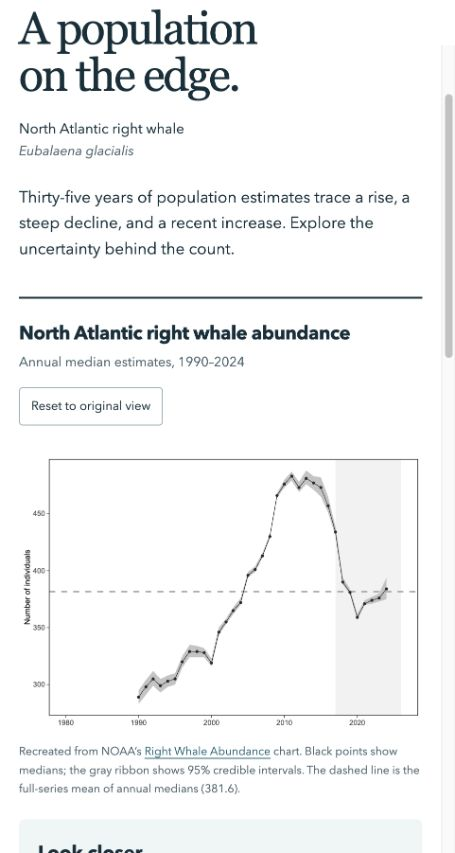
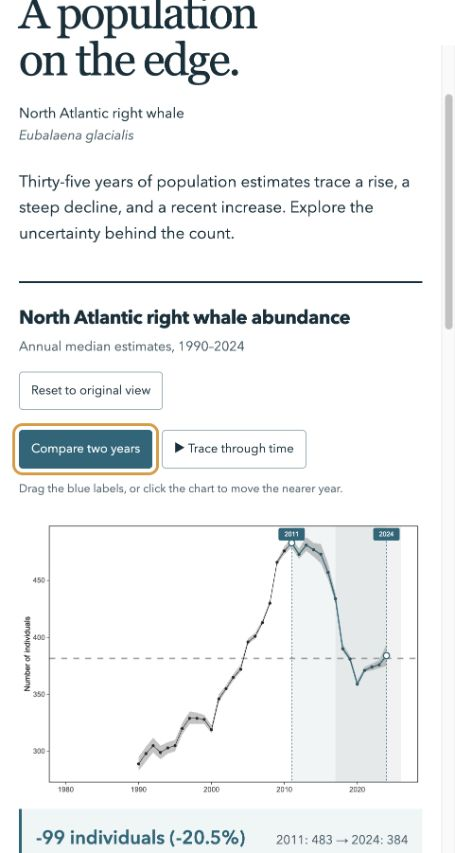
Keep interactive comparison and timeline within the NOAA chart recreation

diff --git a/script.js b/script.js
@@ -10,61 +10,90 @@ const NS='http://www.w3.org/2000/svg';
 const plot={left:50.5,right:664.5,top:28,bottom:454.5};
 const fullMean=data.reduce((sum,d)=>sum+d.Value,0)/data.length;
 let domain=[1977.75,2028.3],active=false;
+let comparing=false, tracing=false, timer=null, dragging=null;
+const compareA=document.querySelector('#compare-a');
+const compareB=document.querySelector('#compare-b');
+const compareToggle=document.querySelector('#compare-toggle');
+const playButton=document.querySelector('#play-chart');
 function el(tag,attrs={},text){const node=document.createElementNS(NS,tag);Object.entries(attrs).forEach(([k,v])=>node.setAttribute(k,v));if(text!==undefined)node.textContent=text;return node;}
 const x=v=>plot.left+(v-domain[0])/(domain[1]-domain[0])*(plot.right-plot.left);
 const y=v=>plot.bottom-(v-273)/(497.7-273)*(plot.bottom-plot.top);
 function line(parent,x1,y1,x2,y2,attrs={}){parent.append(el('line',{x1,y1,x2,y2,...attrs}));}
 function text(parent,xx,yy,str,attrs={}){parent.append(el('text',{x:xx,y:yy,'font-size':12,fill:'#4d4d4d',...attrs},str));}
 function visibleData(){return data.filter(d=>d.Time>= (period.value==='all'?1990:Number(period.value)));}
-function updateReadout(){const d=data.find(d=>d.Time===Number(year.value));const prev=data.find(v=>v.Time===d.Time-1);document.querySelector('#year-label').textContent=d.Time;document.querySelector('#readout').innerHTML=`<strong>${d.Value} <span>individuals</span></strong><p>95% credible interval: ${d.Lower95}–${d.Upper95}</p><p>${prev?`${d.Value-prev.Value>0?'+':''}${d.Value-prev.Value} from ${prev.Time}`:'First year with a population estimate'}</p>`;if(window.oceanReady)updateOcean(d);}
-function highlight(){svg.querySelector('#selection')?.remove();if(!active)return;const d=data.find(d=>d.Time===Number(year.value));const g=el('g',{id:'selection','pointer-events':'none'});line(g,x(d.Time),plot.top,x(d.Time),plot.bottom,{stroke:'#176779','stroke-width':1,'stroke-dasharray':'3 3'});g.append(el('circle',{cx:x(d.Time),cy:y(d.Value),r:5,fill:'white',stroke:'#176779','stroke-width':2}));svg.append(g);}
-function render(){svg.querySelectorAll('g,defs').forEach(n=>n.remove());const rows=visibleData();domain=period.value==='all'?[1977.75,2028.3]:[rows[0].Time-.8,2024.8];year.min=rows[0].Time;if(Number(year.value)<rows[0].Time)year.value=rows[0].Time;const defs=el('defs');const clip=el('clipPath',{id:'plot-clip'});clip.append(el('rect',{x:plot.left,y:plot.top,width:plot.right-plot.left,height:plot.bottom-plot.top}));defs.append(clip);svg.append(defs);const g=el('g',{'clip-path':'url(#plot-clip)'});svg.append(g);g.append(el('rect',{x:x(2017),y:plot.top,width:x(2026)-x(2017),height:plot.bottom-plot.top,fill:'#f2f2f2'}));if(average.checked)line(g,plot.left,y(fullMean),plot.right,y(fullMean),{stroke:'#a3a3a3','stroke-width':2.5,'stroke-dasharray':'10 10'});if(interval.checked){const points=rows.map(d=>`${x(d.Time)},${y(d.Upper95)}`).concat([...rows].reverse().map(d=>`${x(d.Time)},${y(d.Lower95)}`));g.append(el('polygon',{points:points.join(' '),fill:'#bdbdbd','fill-opacity':.9}));}g.append(el('polyline',{points:rows.map(d=>`${x(d.Time)},${y(d.Value)}`).join(' '),fill:'none',stroke:'#1a1a1a','stroke-width':.85}));rows.forEach(d=>g.append(el('circle',{class:'chart-point',cx:x(d.Time),cy:y(d.Value),r:2.5})));const axes=el('g');svg.append(axes);axes.append(el('rect',{x:plot.left,y:plot.top,width:plot.right-plot.left,height:plot.bottom-plot.top,fill:'none',stroke:'#000','stroke-width':1}));[300,350,400,450].forEach(v=>{line(axes,plot.left-4,y(v),plot.left,y(v),{stroke:'#000','stroke-width':.7});text(axes,plot.left-7,y(v)+4,v,{'text-anchor':'end'});});const ticks=period.value==='all'?[1980,1990,2000,2010,2020]:period.value==='1990'?[1990,2000,2010,2020,2024]:period.value==='2000'?[2000,2005,2010,2015,2020,2024]:period.value==='2010'?[2010,2015,2020,2024]:[2017,2019,2021,2024];ticks.forEach(v=>{line(axes,x(v),plot.bottom,x(v),plot.bottom+4,{stroke:'#000','stroke-width':.7});text(axes,x(v),plot.bottom+16,v,{'text-anchor':'middle'});});text(axes,18,241,'Number of individuals',{'text-anchor':'middle',transform:'rotate(-90 18 241)','font-size':13,fill:'#000'});updateReadout();highlight();}
-year.addEventListener('input',()=>{active=true;updateReadout();highlight();});period.addEventListener('change',render);interval.addEventListener('change',render);average.addEventListener('change',render);
-function inspect(event){const p=svg.createSVGPoint();p.x=event.clientX;p.y=event.clientY;const local=p.matrixTransform(svg.getScreenCTM().inverse());if(local.x<plot.left||local.x>plot.right||local.y<plot.top||local.y>plot.bottom)return;const target=domain[0]+(local.x-plot.left)/(plot.right-plot.left)*(domain[1]-domain[0]);const rows=visibleData();year.value=rows.reduce((a,b)=>Math.abs(b.Time-target)<Math.abs(a.Time-target)?b:a).Time;active=true;updateReadout();highlight();}
-svg.addEventListener('pointermove',inspect);svg.addEventListener('pointerdown',inspect);svg.addEventListener('pointerleave',()=>{active=false;highlight();});document.querySelector('#reset').addEventListener('click',()=>{period.value='all';interval.checked=true;average.checked=true;year.value=2024;active=false;render();});render();
+function updateReadout(){const d=data.find(d=>d.Time===Number(year.value));const prev=data.find(v=>v.Time===d.Time-1);document.querySelector('#year-label').textContent=d.Time;document.querySelector('#readout').innerHTML=`<strong>${d.Value} <span>individuals</span></strong><p>95% credible interval: ${d.Lower95}–${d.Upper95}</p><p>${prev?`${d.Value-prev.Value>0?'+':''}${d.Value-prev.Value} from ${prev.Time}`:'First year with a population estimate'}</p>`;}
+function highlight(){svg.querySelector('#selection')?.remove();if(!active||comparing)return;const d=data.find(d=>d.Time===Number(year.value));const g=el('g',{id:'selection','pointer-events':'none'});line(g,x(d.Time),plot.top,x(d.Time),plot.bottom,{stroke:'#176779','stroke-width':1,'stroke-dasharray':'3 3'});g.append(el('circle',{cx:x(d.Time),cy:y(d.Value),r:5,fill:'white',stroke:'#176779','stroke-width':2}));svg.append(g);}
+function render(){svg.querySelectorAll('g,defs').forEach(n=>n.remove());const allRows=visibleData();let rows=allRows;domain=period.value==='all'?[1977.75,2028.3]:[rows[0].Time-.8,2024.8];year.min=rows[0].Time;if(Number(year.value)<rows[0].Time)year.value=rows[0].Time;if(tracing)rows=allRows.filter(d=>d.Time<=Number(year.value));const defs=el('defs');const clip=el('clipPath',{id:'plot-clip'});clip.append(el('rect',{x:plot.left,y:plot.top,width:plot.right-plot.left,height:plot.bottom-plot.top}));defs.append(clip);svg.append(defs);const g=el('g',{'clip-path':'url(#plot-clip)'});svg.append(g);g.append(el('rect',{x:x(2017),y:plot.top,width:x(2026)-x(2017),height:plot.bottom-plot.top,fill:'#f2f2f2'}));if(average.checked)line(g,plot.left,y(fullMean),plot.right,y(fullMean),{stroke:'#a3a3a3','stroke-width':2.5,'stroke-dasharray':'10 10'});if(interval.checked){const points=rows.map(d=>`${x(d.Time)},${y(d.Upper95)}`).concat([...rows].reverse().map(d=>`${x(d.Time)},${y(d.Lower95)}`));g.append(el('polygon',{points:points.join(' '),fill:'#bdbdbd','fill-opacity':.9}));}g.append(el('polyline',{points:rows.map(d=>`${x(d.Time)},${y(d.Value)}`).join(' '),fill:'none',stroke:'#1a1a1a','stroke-width':.85}));rows.forEach(d=>g.append(el('circle',{class:'chart-point',cx:x(d.Time),cy:y(d.Value),r:2.5})));const axes=el('g');svg.append(axes);axes.append(el('rect',{x:plot.left,y:plot.top,width:plot.right-plot.left,height:plot.bottom-plot.top,fill:'none',stroke:'#000','stroke-width':1}));[300,350,400,450].forEach(v=>{line(axes,plot.left-4,y(v),plot.left,y(v),{stroke:'#000','stroke-width':.7});text(axes,plot.left-7,y(v)+4,v,{'text-anchor':'end'});});const ticks=period.value==='all'?[1980,1990,2000,2010,2020]:period.value==='1990'?[1990,2000,2010,2020,2024]:period.value==='2000'?[2000,2005,2010,2015,2020,2024]:period.value==='2010'?[2010,2015,2020,2024]:[2017,2019,2021,2024];ticks.forEach(v=>{line(axes,x(v),plot.bottom,x(v),plot.bottom+4,{stroke:'#000','stroke-width':.7});text(axes,x(v),plot.bottom+16,v,{'text-anchor':'middle'});});text(axes,18,241,'Number of individuals',{'text-anchor':'middle',transform:'rotate(-90 18 241)','font-size':13,fill:'#000'});updateReadout();highlight();drawComparison();updateChartDescription(rows);}
 
-// One whale-shaped mark per estimated individual; stable slots preserve count comparison.
-const field=document.querySelector('#whale-field');
-const oceanYear=document.querySelector('#ocean-year');
-const playButton=document.querySelector('#play-ocean');
-let estimateKey='Value',playTimer=null;
-const fieldDefs=el('defs');
-const whaleSymbol=el('symbol',{id:'whale-symbol',viewBox:'0 0 40 22'});
-// Original vector silhouette: a broad head, tapered body, pectoral fin, and forked flukes.
-whaleSymbol.append(el('path',{d:'M3 10 C3 4 12 2 20 5 C26 7 29 12 32 12 C32 8 34 5 38 5 L36 11 L39 16 C35 18 32 17 30 15 C23 18 14 18 10 15 L9 20 L6 15 C3 14 2 12 3 10 Z'}));
-fieldDefs.append(whaleSymbol);field.append(fieldDefs);
-const whaleMarks=[];
-for(let i=0;i<500;i++){
- const col=i%25,row=Math.floor(i/25);
- const unit=el('g',{class:'whale-unit',transform:`translate(${col*40},${row*26})`,'aria-hidden':'true'});
- unit.append(el('use',{href:'#whale-symbol',width:34,height:20}));field.append(unit);whaleMarks.push(unit);
+function stopPlayback(){clearInterval(timer);timer=null;playButton.textContent='▶ Trace through time';playButton.setAttribute('aria-pressed','false');}
+function updateChartDescription(rows){document.querySelector('#svg-desc').textContent=`${tracing?'Timeline revealed through '+year.value+'. ':''}North Atlantic right whale median population estimates, ${rows[0].Time}–${rows[rows.length-1].Time}. ${interval.checked?'Gray ribbon shows 95% credible intervals. ':''}${comparing?'Two draggable markers compare '+compareA.value+' and '+compareB.value+'.':''}`;}
+function drawComparison(){
+ document.querySelector('#comparison-panel').hidden=!comparing;
+ svg.classList.toggle('is-comparing',comparing);
+ if(!comparing)return;
+ const a=data.find(d=>d.Time===Number(compareA.value)),b=data.find(d=>d.Time===Number(compareB.value));
+ const difference=b.Value-a.Value,percent=difference/a.Value*100;
+ document.querySelector('#compare-a-label').textContent=a.Time;
+ document.querySelector('#compare-b-label').textContent=b.Time;
+ document.querySelector('#compare-change').textContent=`${difference>0?'+':''}${difference} individuals (${percent>0?'+':''}${percent.toFixed(1)}%)`;
+ document.querySelector('#compare-description').textContent=`${a.Time}: ${a.Value} → ${b.Time}: ${b.Value}`;
+ const g=el('g',{id:'comparison-overlay'});
+ g.append(el('rect',{x:x(a.Time),y:plot.top,width:x(b.Time)-x(a.Time),height:plot.bottom-plot.top,fill:'#176779','fill-opacity':.065,'pointer-events':'none'}));
+ const segment=data.filter(d=>d.Time>=a.Time&&d.Time<=b.Time);
+ g.append(el('polyline',{points:segment.map(d=>`${x(d.Time)},${y(d.Value)}`).join(' '),fill:'none',stroke:'#176779','stroke-width':2,'pointer-events':'none'}));
+ [a,b].forEach((d,i)=>{
+  const name=i===0?'a':'b';
+  const labelOffset=i===1&&x(b.Time)-x(a.Time)<48?28:3;
+  line(g,x(d.Time),plot.top+25,x(d.Time),plot.bottom,{stroke:'#176779','stroke-width':1,'stroke-dasharray':'3 3','pointer-events':'none'});
+  g.append(el('circle',{cx:x(d.Time),cy:y(d.Value),r:5,fill:'white',stroke:'#176779','stroke-width':2,'pointer-events':'none'}));
+  const marker=el('g',{'data-handle':name,class:'year-handle'});
+  marker.append(el('rect',{x:x(d.Time)-13,y:plot.top,width:26,height:plot.bottom-plot.top,fill:'transparent'}));
+  marker.append(el('rect',{x:x(d.Time)-22,y:plot.top+labelOffset,width:44,height:21,rx:3,fill:'#176779'}));
+  text(marker,x(d.Time),plot.top+labelOffset+14,d.Time,{'text-anchor':'middle',fill:'white','font-size':11});
+  g.append(marker);
+ });
+ svg.append(g);
 }
-function updateOcean(d){
- const count=d[estimateKey];
- oceanYear.value=d.Time;
- document.querySelector('#ocean-year-label').textContent=d.Time;
- document.querySelector('#ocean-date').textContent=d.Time;
- document.querySelector('#ocean-count').textContent=count;
- document.querySelector('#ocean-measure').textContent=estimateKey==='Value'?'estimated individuals (median)':estimateKey==='Lower95'?'individuals at the lower 95% bound':'individuals at the upper 95% bound';
- const diff=count-483;
- document.querySelector('#ocean-change').textContent=diff===0?'Equal to the 2011 median peak':`${Math.abs(diff)} ${diff>0?'above':'below'} the 2011 median peak`;
- whaleMarks.forEach((mark,i)=>mark.setAttribute('class',`whale-unit${i<count?'':i<483?' ghost':' absent'}`));
- document.querySelector('#field-description').textContent=`${d.Time}: ${count} filled symbols. ${Math.max(0,483-count)} outlined symbols show the gap from the 2011 median of 483. 95% credible interval: ${d.Lower95} to ${d.Upper95}.`;
- document.querySelectorAll('[data-year]').forEach(button=>button.setAttribute('aria-current',String(Number(button.dataset.year)===d.Time)));
- const prior=data.find(r=>r.Time===d.Time-1);
- let story=d.Time===1990?'The series begins with an estimated 289 whales.':d.Time===2011?'The population reaches its highest median estimate in this series: 483 whales.':d.Time===2020?'The median falls to 359, the lowest estimate since 2002.':d.Time===2024?'A recent increase, but still 99 fewer than the 2011 median peak.':prior?`The median ${d.Value>prior.Value?'increases by':d.Value<prior.Value?'decreases by':'changes by'} ${Math.abs(d.Value-prior.Value)} from the previous year, to ${d.Value} whales.`:'';
- if(estimateKey!=='Value')story=`For ${d.Time}, the 95% credible interval spans ${d.Lower95}–${d.Upper95} individuals. You’re viewing its ${estimateKey==='Lower95'?'lower':'upper'} bound; the median is ${d.Value}.`;
- document.querySelector('#ocean-narrative').textContent=story;
+function setComparison(enabled){stopPlayback();tracing=false;comparing=enabled;active=false;compareToggle.setAttribute('aria-pressed',String(enabled));if(enabled)period.value='all';document.querySelector('#chart-help').textContent=enabled?'Drag the blue labels, or click the chart to move the nearer year.':'Hover to inspect an estimate, or try a chart interaction.';render();}
+compareToggle.addEventListener('click',()=>setComparison(!comparing));
+function constrainComparison(which,value){if(which==='a')compareA.value=Math.min(Math.max(1990,value),Number(compareB.value)-1);else compareB.value=Math.max(Math.min(2024,value),Number(compareA.value)+1);render();}
+compareA.addEventListener('input',()=>constrainComparison('a',Number(compareA.value)));
+compareB.addEventListener('input',()=>constrainComparison('b',Number(compareB.value)));
+document.querySelectorAll('[data-compare]').forEach(button=>button.addEventListener('click',()=>{const [a,b]=button.dataset.compare.split(',');compareA.value=a;compareB.value=b;setComparison(true);}));
+function localPoint(event){const p=svg.createSVGPoint();p.x=event.clientX;p.y=event.clientY;return p.matrixTransform(svg.getScreenCTM().inverse());}
+function nearestYear(local){return Math.round(domain[0]+(local.x-plot.left)/(plot.right-plot.left)*(domain[1]-domain[0]));}
+function inspect(event){
+ if(comparing||tracing)return;
+ const local=localPoint(event);
+ if(local.x<plot.left||local.x>plot.right||local.y<plot.top||local.y>plot.bottom)return;
+ year.value=Math.max(Number(year.min),Math.min(2024,nearestYear(local)));active=true;updateReadout();highlight();
 }
-function stopPlayback(){if(playTimer!==null)clearInterval(playTimer);playTimer=null;playButton.textContent='▶ Play timeline';playButton.setAttribute('aria-pressed','false');}
-function selectOceanYear(value){period.value='all';year.min=1990;year.value=value;active=true;render();}
-oceanYear.addEventListener('input',()=>{stopPlayback();selectOceanYear(Number(oceanYear.value));});
-document.querySelectorAll('[data-year]').forEach(button=>button.addEventListener('click',()=>{stopPlayback();selectOceanYear(Number(button.dataset.year));}));
-document.querySelectorAll('[data-estimate]').forEach(button=>button.addEventListener('click',()=>{estimateKey=button.dataset.estimate;document.querySelectorAll('[data-estimate]').forEach(b=>b.setAttribute('aria-pressed',String(b===button)));updateOcean(data.find(d=>d.Time===Number(year.value)));}));
-playButton.addEventListener('click',()=>{if(playTimer!==null){stopPlayback();return;}if(Number(year.value)===2024)selectOceanYear(1990);playButton.textContent='Ⅱ Pause timeline';playButton.setAttribute('aria-pressed','true');playTimer=setInterval(()=>{const next=Number(year.value)+1;if(next>2024){stopPlayback();return;}selectOceanYear(next);if(next===2024)stopPlayback();},850);});
-[year,period].forEach(control=>control.addEventListener('input',stopPlayback));
-svg.addEventListener('pointerdown',stopPlayback);
-svg.addEventListener('pointermove',stopPlayback);
-document.querySelector('#reset').addEventListener('click',()=>{stopPlayback();estimateKey='Value';document.querySelectorAll('[data-estimate]').forEach(b=>b.setAttribute('aria-pressed',String(b.dataset.estimate==='Value')));updateOcean(data[data.length-1]);});
+svg.addEventListener('pointerdown',event=>{
+ const handle=event.target.closest('[data-handle]');
+ if(comparing){
+  const local=localPoint(event);
+  if(local.x<plot.left||local.x>plot.right||local.y<plot.top||local.y>plot.bottom)return;
+  const target=nearestYear(local);
+  dragging=handle?handle.dataset.handle:(Math.abs(target-Number(compareA.value))<=Math.abs(target-Number(compareB.value))?'a':'b');
+  svg.setPointerCapture(event.pointerId);event.preventDefault();constrainComparison(dragging,target);
+ } else inspect(event);
+});
+svg.addEventListener('pointermove',event=>{if(dragging)constrainComparison(dragging,nearestYear(localPoint(event)));else inspect(event);});
+function finishDrag(event){dragging=null;if(svg.hasPointerCapture(event.pointerId))svg.releasePointerCapture(event.pointerId);}
+svg.addEventListener('pointerup',finishDrag);svg.addEventListener('pointercancel',finishDrag);
+svg.addEventListener('pointerleave',()=>{if(!dragging){active=false;highlight();}});
+year.addEventListener('input',()=>{stopPlayback();active=true;if(comparing)setComparison(false);render();});
+period.addEventListener('change',()=>{stopPlayback();if(comparing){comparing=false;compareToggle.setAttribute('aria-pressed','false');}render();});
+interval.addEventListener('change',render);average.addEventListener('change',render);
+playButton.addEventListener('click',()=>{
+ if(timer!==null){stopPlayback();return;}
+ if(comparing)setComparison(false);
+ const start=visibleData()[0].Time;
+ if(!tracing||Number(year.value)===2024)year.value=start;
+ tracing=true;active=true;document.querySelector('#chart-help').textContent='The line unfolds year by year. Pause, then scrub with the year slider.';
+ playButton.textContent='Ⅱ Pause tracing';playButton.setAttribute('aria-pressed','true');render();
+ timer=setInterval(()=>{year.value=Number(year.value)+1;render();if(Number(year.value)>=2024)stopPlayback();},650);
+});
+document.querySelector('#reset').addEventListener('click',()=>{stopPlayback();tracing=false;comparing=false;dragging=null;compareToggle.setAttribute('aria-pressed','false');period.value='all';interval.checked=true;average.checked=true;year.value=2024;active=false;document.querySelector('#chart-help').textContent='Hover to inspect an estimate, or try a chart interaction.';render();});
 document.addEventListener('visibilitychange',()=>{if(document.hidden)stopPlayback();});
-window.oceanReady=true;updateOcean(data[data.length-1]);
+render();

diff --git a/index.html b/index.html
@@ -3,8 +3,8 @@
 <head>
 <meta charset="utf-8"><meta name="viewport" content="width=device-width,initial-scale=1">
 <title>North Atlantic right whales · Visual reverse engineering</title>
-<link rel="stylesheet" href="style.css?v=2">
-<script defer src="data/population.js"></script><script defer src="script.js?v=2"></script>
+<link rel="stylesheet" href="style.css?v=3">
+<script defer src="data/population.js"></script><script defer src="script.js?v=3"></script>
 </head>
 <body>
 <header><a class="site-title" href="#">Ocean populations</a><span>Visual reverse engineering · Fall 2026</span></header>
@@ -13,23 +13,13 @@
 <div><h1>A population<br>on the edge.</h1><p class="species">North Atlantic right whale <i>Eubalaena glacialis</i></p></div>
 <p class="lede">Thirty-five years of population estimates trace a rise, a steep decline, and a recent increase. Explore the uncertainty behind the count.</p>
 </section>
-<section class="ocean-story" aria-labelledby="ocean-title">
-<div class="ocean-top"><div><p class="ocean-kicker">An interactive extension</p><h2 id="ocean-title">Every whale counts.</h2><p>Move through time. Watch an entire population change.</p></div><a href="#chart-title">See the original chart recreation ↓</a></div>
-<div class="ocean-stage">
-<div class="ocean-stat"><div><output id="ocean-count">384</output><span id="ocean-measure">estimated individuals</span></div><div class="ocean-date"><output id="ocean-date">2024</output><span id="ocean-change">99 below the 2011 peak</span></div></div>
-<svg id="whale-field" viewBox="0 0 1000 540" role="img" aria-labelledby="field-title field-description"><title id="field-title">A population of whales, one symbol per estimated individual</title><desc id="field-description">384 filled whale symbols for the 2024 median estimate.</desc></svg>
-<div class="ocean-legend"><span><i class="legend-filled"></i> One symbol = one estimated individual</span><span><i class="legend-ghost"></i> Gap from the 2011 median peak</span></div>
-</div>
-<div class="ocean-controls"><button id="play-ocean" type="button" aria-pressed="false">▶ Play timeline</button><div class="scrubber"><label for="ocean-year">Explore a year <output id="ocean-year-label">2024</output></label><input id="ocean-year" type="range" min="1990" max="2024" value="2024" step="1"><div class="timeline-ends"><span>1990</span><span>2024</span></div></div></div>
-<div class="ocean-options"><div class="milestones" aria-label="Jump to a population milestone"><button data-year="1990">1990 · Starting point</button><button data-year="2011">2011 · Peak</button><button data-year="2020">2020 · Recent low</button><button data-year="2024">2024 · Latest estimate</button></div><div class="estimate-choice" role="group" aria-label="Population estimate to visualize"><span>Explore uncertainty</span><div><button data-estimate="Lower95" aria-pressed="false">Lower bound</button><button data-estimate="Value" aria-pressed="true">Median</button><button data-estimate="Upper95" aria-pressed="false">Upper bound</button></div></div></div>
-<p id="ocean-narrative" class="ocean-narrative" aria-live="polite"></p>
-<p class="ocean-note">Symbols represent model estimates, not identified whales or their locations. Outlines show a numerical gap from 483, not documented deaths. Lower and upper bounds are the limits of the 95% credible interval; the line chart below always shows medians.</p>
-</section>
 <section aria-labelledby="chart-title" class="chart-section">
 <div class="chart-heading"><div><h2 id="chart-title">North Atlantic right whale abundance</h2><p>Annual median estimates, 1990–2024</p></div><button id="reset" type="button">Reset to original view</button></div>
+<div class="chart-tools" aria-label="Chart interactions"><button id="compare-toggle" aria-pressed="false">Compare two years</button><button id="play-chart" aria-pressed="false">▶ Trace through time</button><span id="chart-help">Hover to inspect an estimate, or try a chart interaction.</span></div>
 <div class="chart-layout">
 <div class="chart-column">
 <svg id="chart" viewBox="0 0 672 480" role="img" aria-labelledby="svg-title svg-desc"><title id="svg-title">North Atlantic right whale population estimates</title><desc id="svg-desc">Median population rose from 289 in 1990 to 483 in 2011, declined to 359 in 2020, then increased to 384 in 2024. Gray ribbon shows the 95 percent credible interval.</desc></svg>
+<div id="comparison-panel" hidden><div class="compare-result" aria-live="polite"><strong id="compare-change"></strong><span id="compare-description"></span></div><div class="compare-sliders"><label for="compare-a">Start year <output id="compare-a-label">2011</output><input id="compare-a" type="range" min="1990" max="2023" value="2011"></label><label for="compare-b">End year <output id="compare-b-label">2024</output><input id="compare-b" type="range" min="1991" max="2024" value="2024"></label></div><div class="compare-presets"><button data-compare="2011,2024">Peak to latest</button><button data-compare="2020,2024">Recent increase</button></div><p>Change in median estimates; not a count of deaths or a significance test.</p></div>
 <p class="chart-caption">Recreated from NOAA’s <a href="https://noaa-edab.github.io/catalog/narw.html">Right Whale Abundance</a> chart. Black points show medians; the gray ribbon shows 95% credible intervals. The dashed line is the full-series mean of annual medians (381.6).</p>
 </div>
 <aside class="explorer" aria-label="Year explorer">
@@ -47,7 +37,7 @@
 </section>
 <section class="reading" aria-labelledby="reading-title"><h2 id="reading-title">Reading the recovery</h2><div class="reading-grid"><p><strong>483 → 384</strong>The 2024 median estimate is 20.5% below the 2011 peak, despite the increase since 2020.</p><p><strong>A range, not an exact census</strong>The 2024 estimate is 384 individuals, with a 95% credible interval of 375–394. These are model-based estimates, not a complete head count.</p><p><strong>One species, many pressures</strong>NOAA identifies entanglement in fishing gear and vessel strikes as primary threats. This chart describes population change; it does not isolate its causes.</p></div></section>
 <section class="method" aria-labelledby="method-title"><h2 id="method-title">From reference to reconstruction</h2><p>The original is a static chart in NOAA’s Northeast US Ecosystem Indicator Catalog. The reproduction preserves its monochrome palette, connected circular marks, gray uncertainty ribbon, dashed horizontal reference, boxed axes, blank early years, and pale recent-period background. The surrounding layout and explorer are additions.</p>
-<details><summary>Compare with the original &amp; read the process</summary><div class="comparison"><figure><img src="assets/original-noaa-chart.png" width="1344" height="960" loading="lazy" alt="Original NOAA line chart of North Atlantic right whale abundance, with an uncertainty ribbon and horizontal dashed mean."><figcaption>Original NOAA chart. <a href="assets/original-screenshot.png">View captured screenshot</a> · <a href="https://noaa-edab.github.io/catalog/narw.html">Original page</a></figcaption></figure><div><h3>What was recreated</h3><p>A custom SVG chart uses the original plotted CSV, including all 35 non-missing annual medians and their lower and upper 95% bounds. The original plot’s 672 × 480 display ratio, tick placement, line weight, point size, and gray values guided the reconstruction. No chart image or iframe is used to draw the recreated visualization.</p><h3>What was added</h3><ol><li><b>Every whale counts:</b> an animated population pictogram with a shared year scrubber, timeline playback, milestone jumps, and a lower/median/upper estimate selector. Outlined symbols make the numerical gap from the 2011 median peak visible.</li><li><b>Year inspection:</b> pointer hover, touch, or the keyboard-accessible slider reveals the estimate, interval, and change from the previous year.</li><li><b>Time filtering:</b> select a period to examine recent changes, with a fixed vertical scale.</li><li><b>Layer controls:</b> toggle uncertainty and the full-series average.</li></ol><p>The original pale band is retained as a visual feature; it is not presented as a causal effect. Missing population values before 1990 and in 2025 are not converted to zero. The reset button restores the original chart extent and layers.</p></div></div></details>
+<details><summary>Compare with the original &amp; read the process</summary><div class="comparison"><figure><img src="assets/original-noaa-chart.png" width="1344" height="960" loading="lazy" alt="Original NOAA line chart of North Atlantic right whale abundance, with an uncertainty ribbon and horizontal dashed mean."><figcaption>Original NOAA chart. <a href="assets/original-screenshot.png">View captured screenshot</a> · <a href="https://noaa-edab.github.io/catalog/narw.html">Original page</a></figcaption></figure><div><h3>What was recreated</h3><p>A custom SVG chart uses the original plotted CSV, including all 35 non-missing annual medians and their lower and upper 95% bounds. The original plot’s 672 × 480 display ratio, tick placement, line weight, point size, and gray values guided the reconstruction. No chart image or iframe is used to draw the recreated visualization.</p><h3>What was added</h3><ol><li><b>Direct chart comparison:</b> drag two year markers on the recreated plot to highlight the intervening line segment and calculate absolute and percentage change. Keyboard-accessible sliders and comparison presets are also available.</li><li><b>Trace through time:</b> play or scrub the year slider to progressively reveal the original line, points, and uncertainty ribbon on fixed axes.</li><li><b>Year inspection:</b> pointer hover, touch, or the keyboard-accessible slider reveals the estimate, interval, and change from the previous year.</li><li><b>Time filtering:</b> select a period to examine recent changes, with a fixed vertical scale.</li><li><b>Layer controls:</b> toggle uncertainty and the full-series average.</li></ol><p>The original pale band is retained as a visual feature; it is not presented as a causal effect. Missing population values before 1990 and in 2025 are not converted to zero. The reset button restores the original chart extent and layers.</p></div></div></details>
 </section>
 <footer><p>Source: NOAA Northeast Fisheries Science Center, <a href="https://noaa-edab.github.io/catalog/narw.html">Northeast US Ecosystem Indicator Catalog, “Right Whale Abundance”</a>, updated July 23, 2026. Contributors: Daniel Linden, Richard Pace, and New England Aquarium. Source accessed October 1, 2026.</p><p>Course project by Nicole Lu. Built with HTML, CSS, JavaScript, and SVG, with AI assistance for research, implementation, and verification. Data and reference graphic credited to NOAA. <a href="README.md">Project documentation</a>.</p></footer>
 </main>

diff --git a/style.css b/style.css
@@ -1,3 +1,2 @@
 :root{--ink:#12303b;--muted:#4d656e;--sea:#176779;--line:#d3dfe2;--wash:#eff5f6}*{box-sizing:border-box}body{margin:0;background:#fff;color:var(--ink);font-family:"Avenir Next",Avenir,"Segoe UI",Arial,sans-serif;font-size:16px;line-height:1.6}header{max-width:1280px;margin:auto;padding:24px 42px;display:flex;justify-content:space-between;gap:20px;border-bottom:1px solid var(--line);font-size:13px;color:var(--muted)}a{color:var(--sea);text-underline-offset:3px}a:hover{color:#083a48}.site-title{font-size:18px;font-weight:700;text-decoration:none}main{max-width:1280px;margin:auto;padding:0 42px}.intro{display:grid;grid-template-columns:1.2fr 1fr;align-items:end;gap:60px;padding:48px 0 38px}.intro h1{font-family:Georgia,"Times New Roman",serif;font-size:clamp(42px,5.1vw,65px);font-weight:400;line-height:1.03;letter-spacing:-2px;margin:0 0 20px}.species{font-size:15px;margin:0}.species i{display:block;color:var(--muted);font-size:14px}.lede{max-width:410px;font-size:20px;line-height:1.6;margin:0 0 5px}.chart-section{border-top:2px solid var(--ink);padding-top:24px}.chart-heading{display:flex;justify-content:space-between;align-items:center;gap:15px;margin-bottom:18px}h2{font-size:22px;line-height:1.3;letter-spacing:-.4px;margin:0 0 6px}.chart-heading p{color:var(--muted);margin:0;font-size:14px}button,select{font:inherit;color:var(--ink);border:1px solid #9bb0b7;background:white;border-radius:4px;padding:9px 12px}button{font-size:13px;cursor:pointer}button:hover{background:var(--wash)}.chart-layout{display:grid;grid-template-columns:minmax(0,1fr) 256px;gap:30px;align-items:start}#chart{display:block;width:100%;height:auto;background:#fff;touch-action:pan-y}#chart text{font-family:Arial,Helvetica,sans-serif}#chart .chart-point{fill:#282828}.chart-caption{font-size:12px;line-height:1.65;color:var(--muted);margin:12px 0 0;padding-left:7.5%;max-width:720px}.explorer{background:var(--wash);padding:22px;border-radius:6px;margin-top:20px}.explorer h3{font-size:20px;margin:0}.explorer p{font-size:13px;margin:8px 0 21px;color:var(--muted)}.explorer label{font-size:13px;font-weight:600;display:block}.explorer output{float:right;font-size:16px}.explorer input[type=range]{width:100%;margin:16px 0 20px;accent-color:var(--sea)}#readout{border-top:1px solid #c8d8dd;border-bottom:1px solid #c8d8dd;padding:15px 0;margin-bottom:20px;min-height:135px}#readout strong{display:block;font-size:35px;line-height:1.2;font-weight:500}#readout strong span{font-size:13px;font-weight:400;color:var(--muted)}#readout p{margin:7px 0 0;font-size:12px}.control{margin-bottom:18px}.control select{width:100%;font-size:12px;margin-top:7px;padding:9px 5px}.explorer .check{display:flex;gap:8px;align-items:center;font-weight:400;margin:11px 0}.check input{accent-color:var(--sea);width:16px;height:16px}.explorer .small{font-size:11px;margin:18px 0}.download{font-size:12px}.reading{padding:36px 0 30px;margin-top:32px;border-top:1px solid var(--line)}.reading-grid{display:grid;grid-template-columns:repeat(3,1fr);gap:40px}.reading-grid p{font-size:14px;color:var(--muted);margin:12px 0}.reading-grid strong{display:block;font-size:18px;color:var(--ink);font-weight:600;margin-bottom:8px}.method{border-top:1px solid var(--line);padding:28px 0}.method>p{max-width:850px;font-size:14px;color:var(--muted)}summary{cursor:pointer;color:var(--sea);font-weight:600;font-size:14px;padding:12px 0}.comparison{display:grid;grid-template-columns:1fr 1fr;gap:30px;margin-top:15px}.comparison figure{margin:0}.comparison img{width:100%;height:auto;border:1px solid var(--line)}figcaption{font-size:12px;color:var(--muted)}.comparison h3{font-size:16px;margin:0 0 6px}.comparison p,.comparison li{font-size:13px}.comparison ol{padding-left:20px}footer{border-top:1px solid var(--line);padding:22px 0 32px;max-width:950px;font-size:11px;color:var(--muted)}:focus-visible{outline:3px solid #e29932;outline-offset:4px}@media(max-width:850px){header{padding:20px 24px}main{padding:0 24px}.intro{gap:24px}.lede{font-size:17px}.chart-layout{grid-template-columns:minmax(0,1fr) 220px;gap:12px}.explorer{padding:16px}.reading-grid{gap:24px}}@media(max-width:650px){header{padding:18px 20px}header span{max-width:140px;font-size:11px;text-align:right}main{padding:0 20px}.intro{grid-template-columns:1fr;gap:24px;padding:32px 0}.intro h1{font-size:48px}.lede{font-size:17px;max-width:100%}.chart-heading{align-items:start;flex-direction:column}h2{font-size:20px}.chart-layout{grid-template-columns:1fr}.explorer{margin-top:10px;padding:20px}.chart-caption{padding-left:0}.reading-grid,.comparison{grid-template-columns:1fr;gap:8px}.reading{margin-top:24px}.comparison{gap:20px}}
-/* The new interaction has its own visual language; the NOAA plot stays faithful. */
-.ocean-story{background:#073847;color:#e1f2ef;margin:4px 0 48px;padding:32px 36px 26px;border-radius:12px;overflow:hidden}.ocean-top{display:flex;justify-content:space-between;align-items:center;gap:24px}.ocean-top h2{font-family:Georgia,serif;font-size:42px;font-weight:400;letter-spacing:-1px}.ocean-top p{margin:7px 0;color:#a9c9ce;font-size:15px}.ocean-top .ocean-kicker{font-size:12px;margin:0 0 10px;color:#83b7c2}.ocean-top a{font-size:12px;color:#bddee0;white-space:nowrap}.ocean-stage{margin-top:27px;padding:24px 0 18px;border-top:1px solid #38616b;border-bottom:1px solid #38616b}.ocean-stat{display:flex;justify-content:space-between;align-items:start}.ocean-stat output{display:block;font-family:Georgia,serif;font-variant-numeric:tabular-nums;line-height:1;font-size:72px;letter-spacing:-2px;color:#b6eee0}.ocean-stat span{display:block;font-size:12px;color:#b3ced0;margin-top:9px}.ocean-stat .ocean-date{text-align:right}.ocean-date output{font-size:44px;color:#fff;letter-spacing:-1px}#whale-field{width:100%;display:block;height:auto;margin:25px 0 8px;overflow:visible}.whale-unit{color:#9ee2d1;transition:opacity .45s ease,color .45s ease}.whale-unit use{transition:fill .45s ease,stroke .45s ease;fill:currentColor;stroke:currentColor;stroke-width:.45}.whale-unit.ghost{color:#497582}.whale-unit.ghost use{fill:transparent;stroke-width:1}.whale-unit.absent{opacity:0}.ocean-legend{display:flex;justify-content:space-between;gap:15px;color:#aacbd0;font-size:11px}.ocean-legend span{display:flex;gap:7px;align-items:center}.ocean-legend i{display:inline-block;width:9px;height:9px;border-radius:50%;flex-shrink:0}.legend-filled{background:#9ee2d1}.legend-ghost{border:1px solid #6c9ba7}.ocean-controls{display:flex;gap:28px;align-items:center;padding:23px 0 10px}.ocean-story button{background:transparent;border-color:#557f89;color:#dfefee;cursor:pointer;transition:background .2s}.ocean-story button:hover{background:#245969}.ocean-story button[aria-pressed=true]{background:#b6eee0;color:#073847;border-color:#b6eee0}.ocean-controls>button{min-width:140px;padding:13px 16px}.scrubber{flex:1}.scrubber label{display:flex;justify-content:space-between;font-size:12px}.scrubber input{width:100%;margin:12px 0 0;accent-color:#aee8d9;cursor:ew-resize;height:20px}.timeline-ends{display:flex;justify-content:space-between;font-size:10px;color:#95bbc3}.ocean-options{display:flex;justify-content:space-between;gap:24px;align-items:start;margin-top:19px}.milestones{display:flex;gap:7px;flex-wrap:wrap;max-width:450px;padding-top:24px}.milestones button{font-size:11px;padding:7px 9px}.milestones button[aria-current=true]{border-color:#b6eee0;background:#235565}.estimate-choice{flex-shrink:0}.estimate-choice>span{display:block;font-size:11px;color:#afcbd0;margin-bottom:7px}.estimate-choice>div{display:flex;gap:0}.estimate-choice button{font-size:11px;border-radius:0;padding:8px 11px}.estimate-choice button:first-child{border-radius:4px 0 0 4px}.estimate-choice button:last-child{border-radius:0 4px 4px 0}.ocean-narrative{font-family:Georgia,serif;font-size:21px;line-height:1.5;max-width:790px;min-height:64px;margin:29px 0 14px}.ocean-note{font-size:11px;line-height:1.7;max-width:830px;color:#a9c9ce;margin:0}.ocean-story :focus-visible{outline-color:#ffd27d}@media(prefers-reduced-motion:reduce){.whale-unit,.whale-unit use,.ocean-story button{transition:none}}@media(max-width:850px){.ocean-top{align-items:start;flex-direction:column;gap:6px}.ocean-options{flex-direction:column;gap:17px}.milestones{padding-top:0;max-width:none}.ocean-legend{flex-direction:column;gap:5px}}@media(max-width:650px){.ocean-story{margin-left:-8px;margin-right:-8px;padding:24px 18px;border-radius:8px}.ocean-top h2{font-size:34px}.ocean-top p{font-size:13px}.ocean-top a{font-size:11px}.ocean-stat output{font-size:58px}.ocean-date output{font-size:35px}.ocean-stat span{font-size:10px}.ocean-controls{gap:15px}.ocean-controls>button{min-width:112px;padding:11px 8px;font-size:12px}#whale-field{margin-top:23px}.ocean-narrative{font-size:18px;min-height:90px}.ocean-note{font-size:10px}}
+.chart-tools{display:flex;align-items:center;gap:10px;flex-wrap:wrap;padding:3px 0 8px}.chart-tools button[aria-pressed=true]{background:var(--sea);color:white;border-color:var(--sea)}#chart-help{font-size:12px;color:var(--muted);flex-basis:100%;margin:2px 0 4px}.year-handle{cursor:ew-resize}#chart.is-comparing{touch-action:none}#comparison-panel{margin:12px 0 10px 7.5%;padding:18px 20px;background:var(--wash);border-left:3px solid var(--sea)}[hidden]{display:none!important}.compare-result{display:flex;justify-content:space-between;align-items:baseline;gap:10px;flex-wrap:wrap}.compare-result strong{font-size:22px;font-weight:600;color:var(--sea)}.compare-result span{font-size:13px;color:var(--muted)}.compare-sliders{display:flex;gap:30px;margin:16px 0 10px}.compare-sliders label{flex:1;font-size:12px}.compare-sliders output{float:right;font-weight:600}.compare-sliders input{width:100%;accent-color:var(--sea);display:block;margin:8px 0}.compare-presets{display:flex;gap:8px}.compare-presets button{font-size:11px;padding:6px 9px}#comparison-panel p{font-size:11px;color:var(--muted);margin:12px 0 0}@media(max-width:650px){#comparison-panel{margin-left:0;padding:15px}.compare-sliders{gap:20px}.compare-result strong{font-size:20px}}

diff --git a/README.md b/README.md
@@ -20,13 +20,15 @@ The recreation preserves the 672 × 480 aspect ratio, white background, black bo
 
 The original CSV supplies the exact median and interval values. `Value` contains the annual median, `Lower95`/`Upper95` contain the 95% credible bounds, and `hline` is the full-series mean of annual medians (381.628571...). `Mean` is a separate posterior mean column and is not the connected series. Missing estimates in 1980–1989 and 2025 are excluded from marks, never replaced with zero. The chart shows 35 estimates, 1990–2024. The original catalog's region/facet heading does not mean these are counts restricted to the Mid-Atlantic: NOAA describes the indicator as the North Atlantic right whale population.
 
-## Every whale counts — visual extension
-
-An original SVG whale pictogram turns the population estimate into individual marks. Each filled silhouette represents one estimated individual. Stable positions in a 25-column field make changes in quantity easy to see; outlined marks expose the numerical gap below the 2011 median peak of 483. The icons are symbolic, not actual tracked animals, and disappearing marks do not represent documented deaths.
-
-A shared year slider, play/pause timeline, and four milestone buttons synchronize the field with the original line chart. A three-way estimate selector lets viewers see how many symbols separate the lower 95% credible bound, median, and upper bound. This changes only the pictogram; the source reproduction always plots medians. All intervals use the original CSV. Reduced-motion preferences disable mark transitions. Playback is user-initiated, can be paused, stops in background tabs, and ends at 2024.
-
 ## Added interactions
+
+The extension operates directly on the recreated NOAA chart. There is no second visualization.
+
+- **Draggable year comparison:** activate “Compare two years,” then drag the blue labels on the plot. The intervening line segment is highlighted and the change in medians is reported in individuals and percent. Start/end sliders provide keyboard access; presets compare the 2011 peak to 2024 or the recent 2020–2024 increase. These changes are descriptive, not counts of deaths or significance tests.
+- **Trace through time:** playback progressively reveals the original line, points, and ribbon on fixed axes. Pause and scrub the year slider to inspect any partial history. Future estimates are hidden, not zero. Playback never starts automatically, pauses in background tabs, and ends in 2024.
+
+Reset restores the source-faithful view with all years and no comparison overlay.
+
 
 1. **Year exploration:** hover/touch the plot or use the keyboard-accessible year slider to inspect the estimate, credible interval, and change in median from the preceding year. A crosshair locates the selected point.
 2. **Time-range filter:** focus on all estimates, since 2000, since 2010, or since 2017. The vertical domain and full-series mean stay fixed for comparability.
